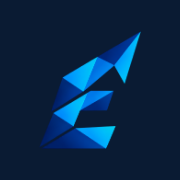
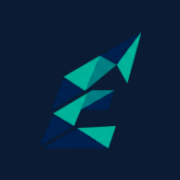
Replace the mark with the official brand-sheet artwork (navy/teal)
Cropped the standalone symbol from the supplied brand sheet, re-matted it
through the same white-background-removal pipeline as before (real alpha,
no white fringe — verified on both light and dark grounds down to 24px),
and repointed tools/make-logo.mjs + make-og.mjs at web/public/ — both still
wrote to src/public/ from before the Angular rebuild, so logo/OG/icon
regeneration was silently broken until this.

Regenerated everywhere the mark appears: navbar, favicon (also switched
index.html from the stale default favicon.ico to the regenerated
icon-32.png — favicon.ico was never touched by this pipeline), touch icon,
OG share card.

Found and fixed a real bug while testing this against the QR generator:
QrService loads the mark async, but nothing ever re-rendered the canvas
once it arrived, so a code requested before the image's first fetch
completed was permanently missing its mark for the rest of the session.
Added QrService.whenLogoReady() and wired the component to redraw once the
mark loads. Verified with an independent decoder (jsQR) that the generated
code still reads correctly with the new mark stamped on it.

Changed region(s): [[0.2222, 0.1667, 0.8056, 0.8333]]

diff --git a/web/src/app/core/services/qr.service.ts b/web/src/app/core/services/qr.service.ts
@@ -20,14 +20,28 @@ export interface QrRenderResult {
 export class QrService {
   private logo: HTMLImageElement | null = null;
   private logoReady = false;
+  /** Fired once, when the mark image finishes loading. render() draws
+   *  synchronously against whatever logoReady is *at that instant* — on a
+   *  cold load the first call can land before the image arrives, and
+   *  without this nothing ever asks for a second render, so the QR is
+   *  stuck without its mark for the rest of the session. Callers should
+   *  re-render once this fires. */
+  private onLogoReady: (() => void) | null = null;
 
   private ensureLogo(): void {
     if (this.logo) return;
     this.logo = new Image();
     this.logo.onload = () => {
       this.logoReady = true;
+      this.onLogoReady?.();
     };
     this.logo.src = '/logo@2x.png';
+  }
+
+  /** Registers the one callback to run when the mark becomes available.
+   *  Idempotent against repeat calls from the same component instance. */
+  whenLogoReady(cb: () => void): void {
+    this.onLogoReady = cb;
   }
 
   supportsCopy(): boolean {

diff --git a/tools/source/crop.html b/tools/source/crop.html
@@ -1,0 +1,20 @@
+<!doctype html>
+<!-- Precise pixel-rect crop via canvas drawImage, driven by query params:
+     ?x=&y=&w=&h= are the source rectangle in the original image's own pixels. -->
+<html><head><style>body{margin:0}</style></head>
+<body>
+<canvas id="c"></canvas>
+<script>
+const p = new URLSearchParams(location.search);
+const x = +p.get('x'), y = +p.get('y'), w = +p.get('w'), h = +p.get('h');
+const img = new Image();
+img.onload = () => {
+  const c = document.getElementById('c');
+  c.width = w; c.height = h;
+  const ctx = c.getContext('2d');
+  ctx.drawImage(img, x, y, w, h, 0, 0, w, h);
+  document.title = 'ready';
+};
+img.src = 'logo-sheet.png';
+</script>
+</body></html>

diff --git a/tools/og-card.html b/tools/og-card.html
@@ -1,6 +1,6 @@
 <!doctype html>
 <!--
-  Source for the Open Graph card. Rendered to src/public/og.png by
+  Source for the Open Graph card. Rendered to web/public/og.png by
   `node tools/make-og.mjs`. Edit here, re-run that, commit the PNG.
   Kept as HTML rather than hand-drawn so the card always matches the site's
   own type and colour.
@@ -72,7 +72,7 @@
 <div class="grid"></div>
 
 <div class="lockup">
-  <img class="mark" src="../src/public/logo@2x.png" alt="">
+  <img class="mark" src="../web/public/logo@2x.png" alt="">
   <span class="bar"></span>
   <span class="word">
     <span class="row"><b>E&#8209;CELL</b><i>|</i><em>PSGIM</em></span>

diff --git a/web/src/app/shared/ui/qr-generator.component.ts b/web/src/app/shared/ui/qr-generator.component.ts
@@ -68,6 +68,12 @@ export class QrGeneratorComponent implements AfterViewInit, OnDestroy {
   ngAfterViewInit(): void {
     if (!isPlatformBrowser(this.platformId)) return;
     this.canCopy = this.qr.supportsCopy();
+    // The mark image loads async; if a code was already drawn before it
+    // arrived (a fast typer, or a slow first fetch), redraw once so the
+    // mark actually appears instead of being silently missing forever.
+    this.qr.whenLogoReady(() => {
+      if (this.value()) this.renderNow();
+    });
     if (this.prefill) {
       this.setValue(this.prefill);
     }

diff --git a/web/src/index.html b/web/src/index.html
@@ -5,7 +5,7 @@
   <title>PSGIM E-Cell — Entrepreneurship Cell, PSG Institute of Management</title>
   <base href="/">
   <meta name="viewport" content="width=device-width, initial-scale=1">
-  <link rel="icon" type="image/x-icon" href="favicon.ico">
+  <link rel="icon" type="image/png" href="/icon-32.png">
   <link rel="apple-touch-icon" href="/icon-180.png">
   <meta name="theme-color" content="#f5f8fc" media="(prefers-color-scheme: light)">
   <meta name="theme-color" content="#05101f" media="(prefers-color-scheme: dark)">

diff --git a/tools/icon-card.html b/tools/icon-card.html
@@ -1,5 +1,5 @@
 <!doctype html>
-<!-- Source for src/public/icon-180.png (the apple-touch-icon). See make-og.mjs. -->
+<!-- Source for web/public/icon-180.png (the apple-touch-icon). See make-og.mjs. -->
 <html lang="en">
 <head>
 <meta charset="utf-8">
@@ -10,6 +10,6 @@
 </style>
 </head>
 <body>
-<img src="../src/public/logo@2x.png" alt="">
+<img src="../web/public/logo@2x.png" alt="">
 </body>
 </html>

diff --git a/tools/key-logo.html b/tools/key-logo.html
@@ -32,7 +32,7 @@ const PROBE = params.has("probe");
 const OUT   = Number(params.get("size") || 512);
 
 const img = new Image();
-img.src = "../src/logo.jpeg";
+img.src = "source/logo-new.png";
 
 img.onload = () => {
   const w = img.naturalWidth, h = img.naturalHeight;
